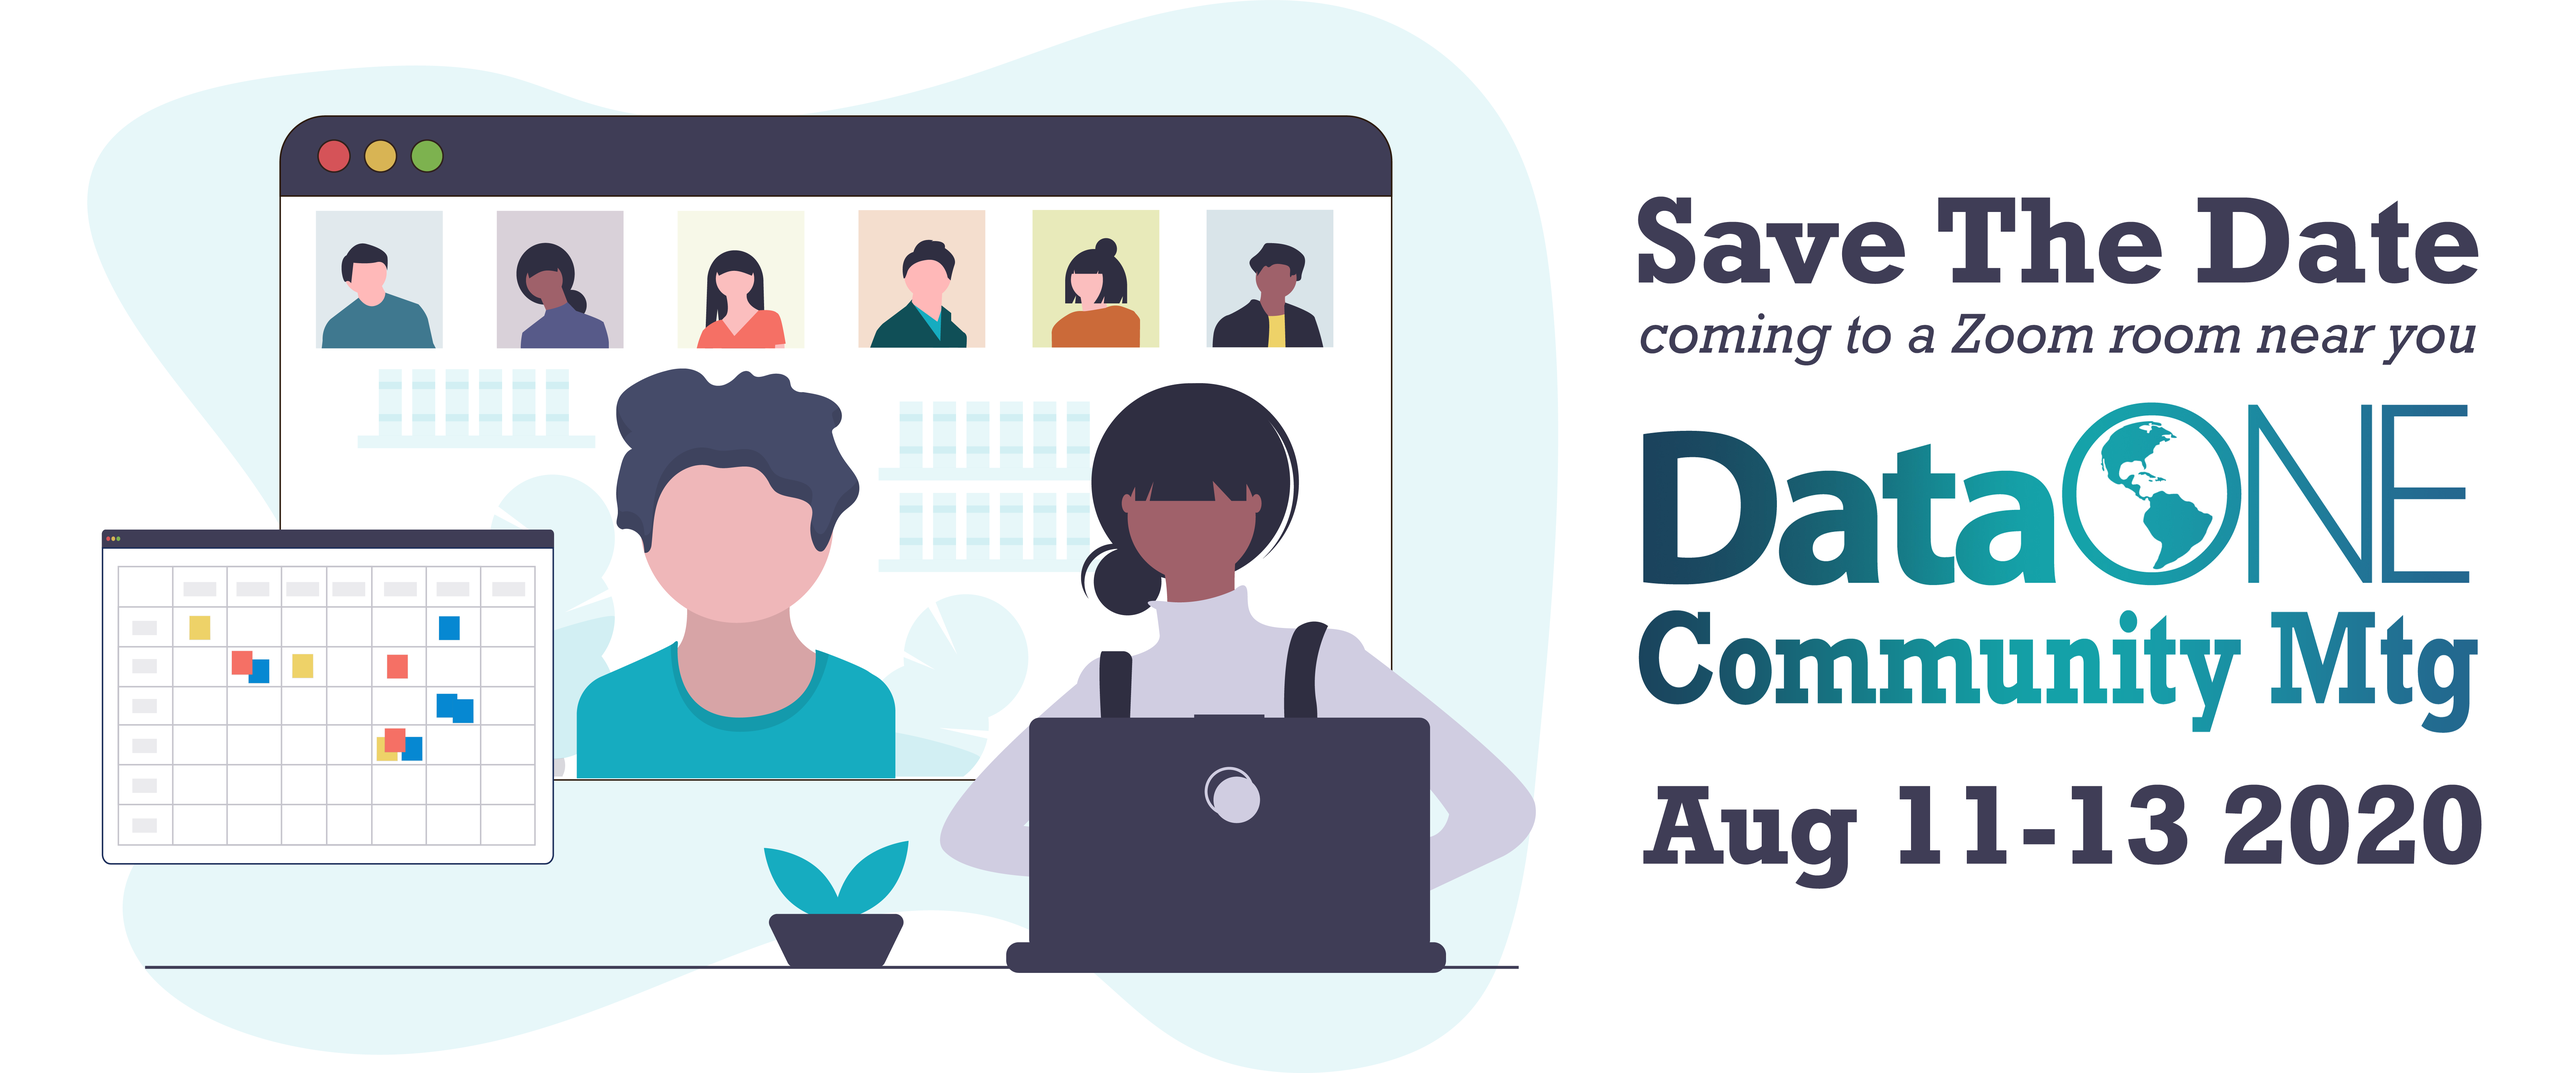
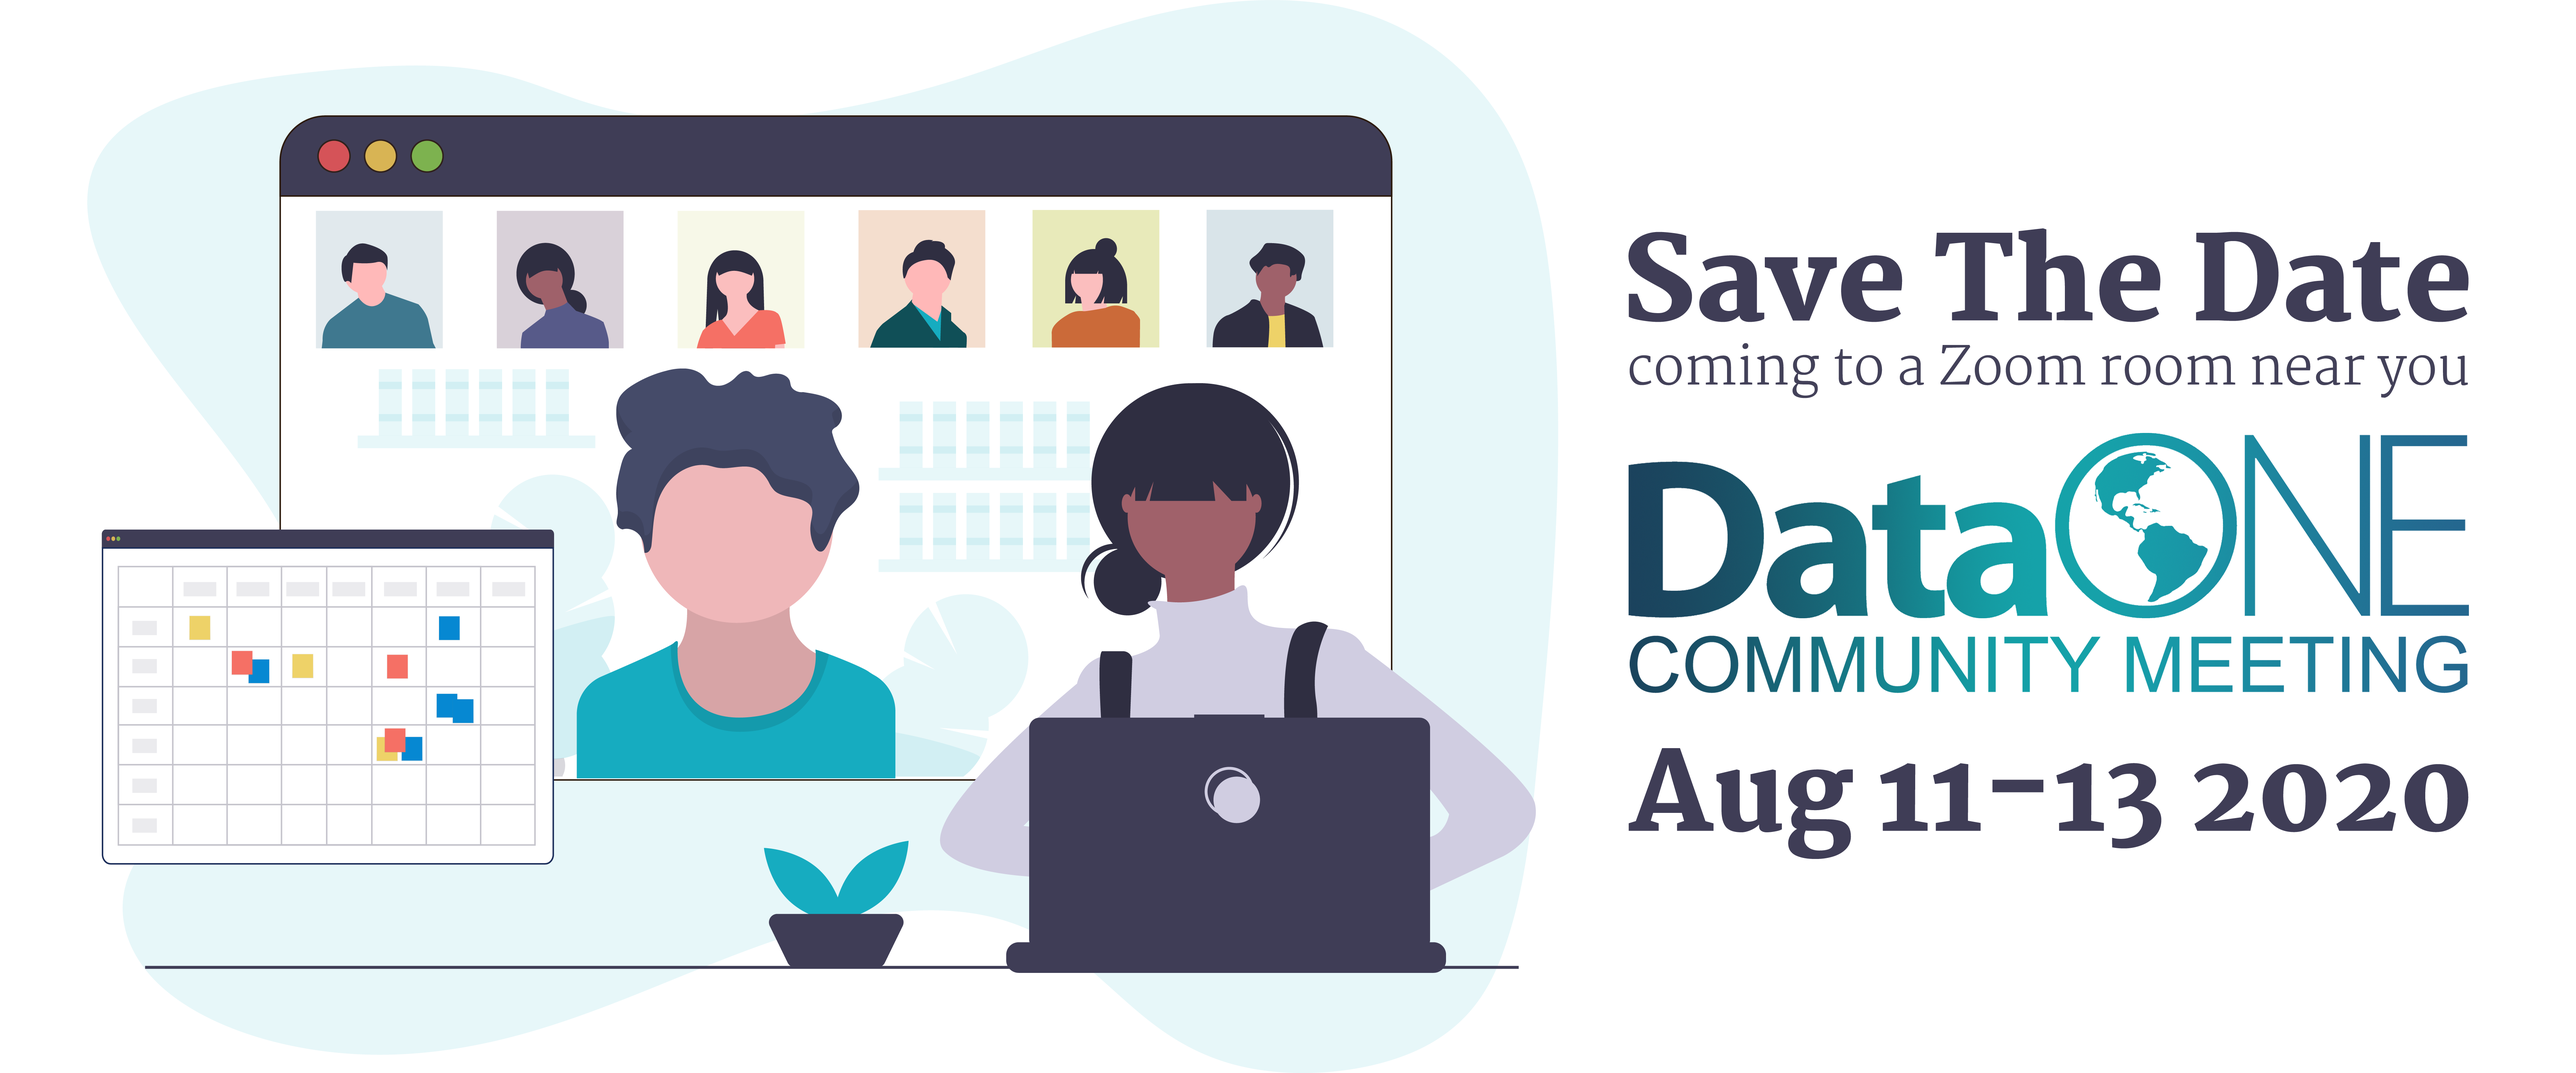
Update from Forestry.io DataONE WebEditor created content/uploads/savethedate.png DataONE WebEditor updated content/community/community.md

Changed region(s): [[0.6242, 0.1859, 0.9674, 0.6817], [0.6242, 0.6817, 0.9674, 0.8367]]

diff --git a/content/community/community.md b/content/community/community.md
@@ -6,7 +6,7 @@ header:
   title: DataONE Community
   intro: ''
   template: ''
-  type: image on right
+  type: center image
   background_color: ''
   image:
     template: ''
